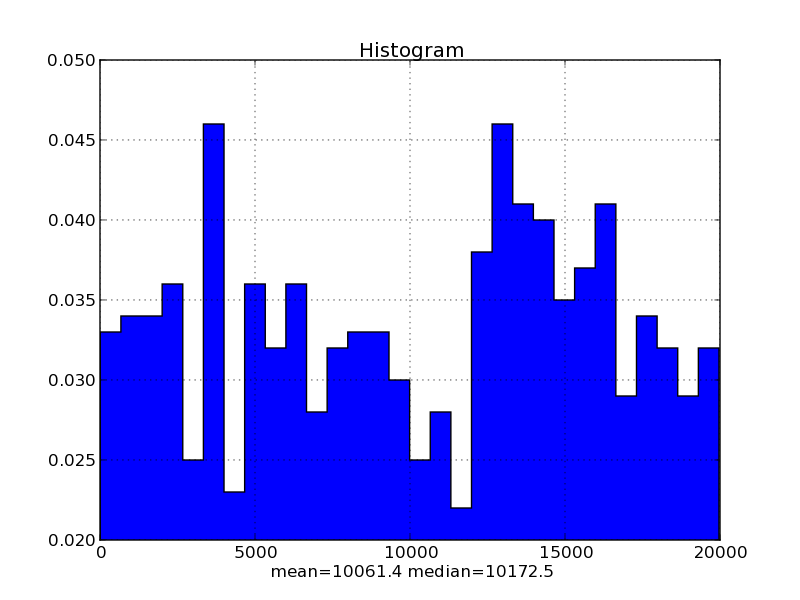
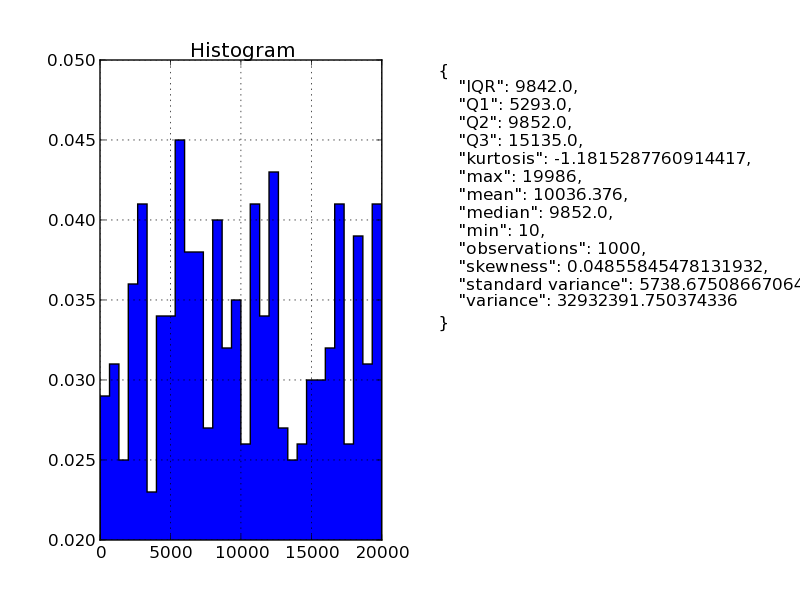
m

diff --git a/common.py b/common.py
@@ -2,8 +2,9 @@
 # -*- coding: utf-8 -*-
 # This file is auto-generated.Edit it at your own peril.
 import numpy as np
-import time, random, matplotlib
+import time, random, matplotlib, json
 import matplotlib.pyplot as plt
+import scipy.stats as stats
 
 def random_generator_f(count, minimum = 0., maximum = 1.0, duplicate = False, seed = time.time()):
     record = None
@@ -41,16 +42,45 @@ def mean(array, axis = None):
 def median(array, axis = None):
     return np.median(array, axis)
 
+def std(array, axis = None, ddof_ = 1):
+    return np.std(array, axis, ddof = ddof_)
+
 def hist(data, breaks = 10, col = 'b'):
+    plt.subplot(1,2,1)
     plt.title('Histogram')
     weights = np.ones_like(data) / float(len(data))
     plt.hist(data, breaks, weights = weights, facecolor=col, histtype = 'stepfilled', stacked = True)
-    plt.xlabel('mean=%.1f median=%.1f' % (mean(data), median(data)))
     plt.grid(True)
+    ax2 = plt.subplot(1,2,2)
+    ax2.set_axis_off()
+    ax2.invert_yaxis()
+    ax2.text(0, 0, json.dumps(summary(data), indent = 4, sort_keys = True), verticalalignment = 'top')
 
 def saveimg(img):
     plt.savefig(img)
     plt.clf()
+
+def summary(data, axis = None):
+    info = stats.describe(data, axis)
+    dc = dict()
+    dc['observations'] = info[0]
+    dc['min'] = info[1][0]
+    dc['max'] = info[1][1]
+    dc['mean'] = info[2]
+    dc['median'] = median(data, axis)
+    dc['variance'] = info[3]
+    dc['skewness'] = info[4]
+    dc['kurtosis'] = info[5]
+    dc['Q1'] = np.percentile(data, 25, axis)
+    dc['Q2'] = np.percentile(data, 50, axis)
+    dc['Q3'] = np.percentile(data, 75, axis)
+    dc['IQR'] = dc['Q3'] - dc['Q1']
+    dc['standard variance'] = std(data, axis)
+
+    return dc
+
+def pdict(data, sort = True):
+    print json.dumps(data, indent = 4, sort_keys = sort)
 
 '''
 def main():

diff --git a/main.py b/main.py
@@ -5,10 +5,9 @@ from common import *
 
 def main():
     data = random_generator_i(1000, 1, 20000)
-    print "mean:", mean(data)
-    print "median:", median(data)
     hist(data, breaks = 30)
     saveimg("data.png")
+    pdict(summary(data))
 
 if __name__ == "__main__":
     main()
